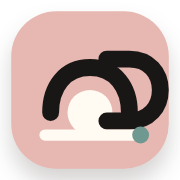
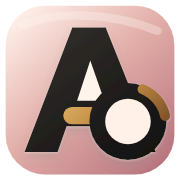
Refresh AO Labs monogram

diff --git a/index.html b/index.html
@@ -22,8 +22,8 @@
   <meta name="twitter:description" content="A compact atlas of Alan Pham's research, tools, papers, robotics work, and live systems.">
   <meta name="twitter:image" content="https://aolabs.io/og-image-20260507-suite3.png">
   <meta name="twitter:image:alt" content="AO Labs preview card with the latest app logos.">
-  <link rel="icon" href="/favicon.svg?v=20260508-visible" type="image/svg+xml">
-  <link rel="apple-touch-icon" href="/apple-touch-icon.png?v=20260507-suite3">
+  <link rel="icon" href="/favicon.svg?v=20260508-premium-ao" type="image/svg+xml">
+  <link rel="apple-touch-icon" href="/apple-touch-icon.png?v=20260508-premium-ao">
   <meta name="msapplication-TileColor" content="#e7b7b1">
   <style>
     :root {
